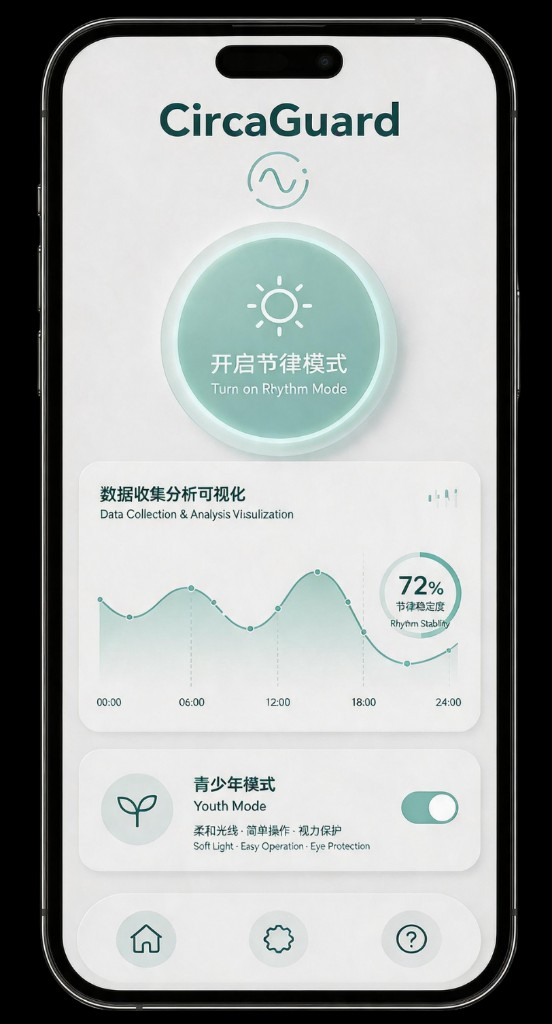
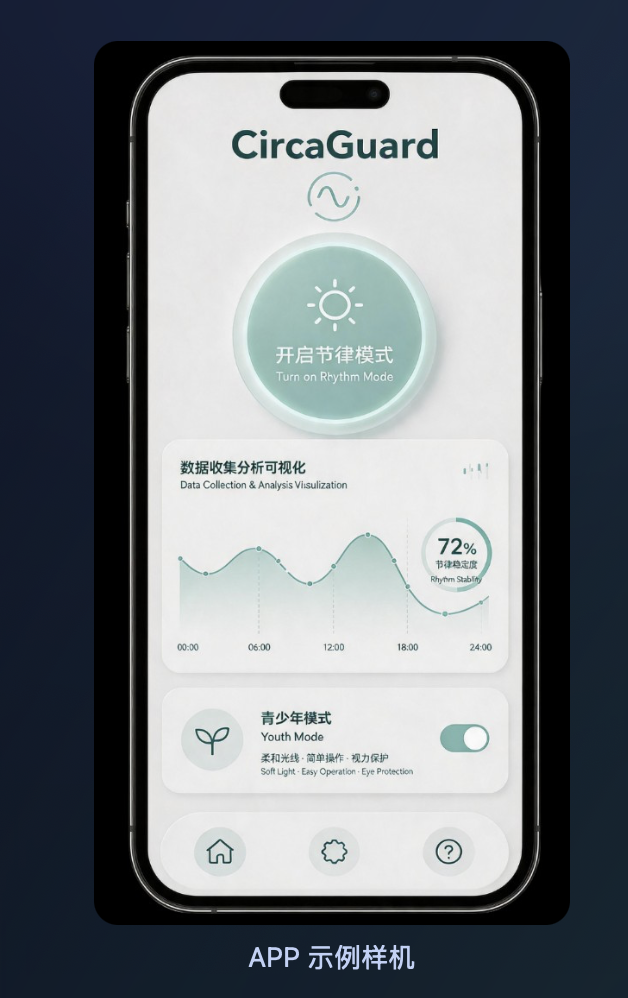
Polish final slide and add page number jump panel.
Remove redundant final-page content, keep a concise closing line, simplify app mockup styling, and add a clickable page-number picker in the footer controls.

diff --git a/script.js b/script.js
@@ -3,6 +3,8 @@ const counter = document.getElementById("counter");
 const progress = document.getElementById("progress");
 const prevBtn = document.getElementById("prevBtn");
 const nextBtn = document.getElementById("nextBtn");
+const pageJumpBtn = document.getElementById("pageJumpBtn");
+const pageJumpPanel = document.getElementById("pageJumpPanel");
 const printBtn = document.getElementById("printBtn");
 const fullscreenBtn = document.getElementById("fullscreenBtn");
 const langBtn = document.getElementById("langBtn");
@@ -185,7 +187,7 @@ const deckContent = {
         mockup: {
           src: "./assets/app-mockup.png",
           alt: "CircaGuard APP 示例样机",
-          caption: "APP 示例样机",
+          caption: "APP界面",
           position: "right",
         },
         highlight: "APP 是个体节律管理平台。",
@@ -240,10 +242,8 @@ const deckContent = {
       },
       {
         type: "closing",
-        title: "最终结语",
-        sentence: "CircaGuard 的演化路径是：产品到系统，再到空间。",
-        mark: "CircaGuard",
-        highlight: "通过可持续的节律基础设施，重新设计夜晚，也重新设计未来。",
+        title: "",
+        sentence: "重新设计夜晚，也重新设计未来。",
       },
     ],
   },
@@ -411,7 +411,7 @@ const deckContent = {
         mockup: {
           src: "./assets/app-mockup.png",
           alt: "CircaGuard app mockup",
-          caption: "APP mockup example",
+          caption: "APP Interface",
           position: "right",
         },
         highlight: "The app becomes a personal rhythm management platform.",
@@ -466,10 +466,8 @@ const deckContent = {
       },
       {
         type: "closing",
-        title: "Final Note",
-        sentence: "The evolution path of CircaGuard is: product to system, then to space.",
-        mark: "CircaGuard",
-        highlight: "Through sustainable circadian infrastructure, we hope to redesign the night and redesign the future.",
+        title: "",
+        sentence: "Redesign the night, redesign the future.",
       },
     ],
   },
@@ -497,7 +495,7 @@ const narration = {
     "最终，我们将系统明确为家庭与学校双场景协同结构。家庭卧室负责个体化、持续性的闭环干预；学校教室则作为公共环境辅助系统，在白天帮助稳定节律状态。两者共同构成一个更完整的节律生态。",
     "在应用层面，我们将个体层聚焦在家庭卧室，将空间层聚焦在学校教室。卧室是最直接发生睡眠行为的地方，适合进行个体化干预；教室则是最重要的公共学习环境，适合提供节律友好的空间支持。",
     "最终，这个项目从一个产品演变为一个系统，再进一步扩展为空间基础设施。为了让它更可实施，我们也提出了分阶段落地路径，先从个体层系统开始，再逐步扩展到学校空间层。",
-    "CircaGuard 的演化路径是：产品到系统，再到空间。我们希望通过可持续的节律基础设施，重新设计夜晚，也重新设计未来。",
+    "重新设计夜晚，也重新设计未来。",
   ],
   en: [
     "Hello everyone, our project is CircaGuard, an adolescent sleep intervention system based on circadian rhythm and AI, developed as a biodesign practice under the Convergent Life framework.",
@@ -520,7 +518,7 @@ const narration = {
     "Ultimately, we define the system as a dual-scenario coordinated structure between home and school. The home bedroom supports individualized and continuous closed-loop intervention, while school classrooms serve as a public environmental support system to stabilize circadian states during the day. Together, they form a more complete rhythm ecosystem.",
     "At the application level, we focus the personal layer on home bedrooms and the spatial layer on school classrooms. Bedrooms are where sleep behavior occurs most directly and are suitable for individualized intervention; classrooms are the most important public learning environments and are suitable for rhythm-friendly spatial support.",
     "In the end, this project evolves from a product into a system, and further into spatial infrastructure. To make it more implementable, we also propose a phased deployment path: starting with the personal-layer system, then gradually expanding to the school spatial layer.",
-    "The evolution path of CircaGuard is: product to system, then to space. Through sustainable circadian infrastructure, we hope to redesign the night and redesign the future.",
+    "Redesign the night, redesign the future.",
   ],
 };
 
@@ -618,10 +616,10 @@ function renderSlide(slide, index) {
   if (slide.type === "closing") {
     return `
       <section class="slide ${index === current ? "active" : ""}">
-        <h3 class="reveal">${slide.title}</h3>
+        ${slide.title ? `<h3 class="reveal">${slide.title}</h3>` : ""}
         <p class="closing reveal">${slide.sentence}</p>
-        <h2 class="reveal">${slide.mark}</h2>
-        <p class="highlight reveal">${slide.highlight}</p>
+        ${slide.mark ? `<h2 class="reveal">${slide.mark}</h2>` : ""}
+        ${slide.highlight ? `<p class="highlight reveal">${slide.highlight}</p>` : ""}
       </section>`;
   }
 
@@ -671,6 +669,10 @@ function mountSlides() {
   document.querySelector("label[for='enVoiceSelect']").textContent = content.nav.enVoiceLabel;
   langBtn.textContent = lang === "zh" ? "EN" : "中";
   document.documentElement.lang = lang === "zh" ? "zh-CN" : "en";
+  pageJumpBtn.textContent = lang === "zh" ? "页码" : "Pages";
+  pageJumpBtn.title = lang === "zh" ? "跳转到指定页面" : "Jump to specific page";
+  closePageJumpPanel();
+  buildPageJumpPanel();
   updateVoiceButton();
   renderVoiceSelectOptions();
 }
@@ -683,6 +685,7 @@ function render() {
   progress.style.width = `${((current + 1) / slides.length) * 100}%`;
   prevBtn.disabled = current === 0;
   nextBtn.disabled = current === slides.length - 1;
+  updatePageJumpActive();
   speakCurrentSlide();
 }
 
@@ -695,6 +698,15 @@ function go(step) {
 
 prevBtn.addEventListener("click", () => go(-1));
 nextBtn.addEventListener("click", () => go(1));
+
+pageJumpBtn.addEventListener("click", (event) => {
+  event.stopPropagation();
+  if (pageJumpPanel.hasAttribute("hidden")) {
+    openPageJumpPanel();
+  } else {
+    closePageJumpPanel();
+  }
+});
 
 langBtn.addEventListener("click", () => {
   lang = lang === "zh" ? "en" : "zh";
@@ -818,7 +830,16 @@ window.addEventListener("keydown", (event) => {
   } else if (event.key === "Escape" && isVoiceModalOpen()) {
     event.preventDefault();
     closeVoiceModal();
+  } else if (event.key === "Escape" && !pageJumpPanel.hasAttribute("hidden")) {
+    event.preventDefault();
+    closePageJumpPanel();
   }
+});
+
+document.addEventListener("click", (event) => {
+  if (pageJumpPanel.hasAttribute("hidden")) return;
+  if (pageJumpPanel.contains(event.target) || pageJumpBtn.contains(event.target)) return;
+  closePageJumpPanel();
 });
 
 function refreshVoices() {
@@ -988,6 +1009,41 @@ function closeVideoModal(options = {}) {
 function openVoiceModal() {
   voiceModal.removeAttribute("hidden");
   requestAnimationFrame(() => voiceModal.classList.add("show"));
+}
+
+function openPageJumpPanel() {
+  pageJumpPanel.removeAttribute("hidden");
+}
+
+function closePageJumpPanel() {
+  pageJumpPanel.setAttribute("hidden", "");
+}
+
+function buildPageJumpPanel() {
+  if (!pageJumpPanel) return;
+  pageJumpPanel.innerHTML = slides
+    .map(
+      (_, index) =>
+        `<button type="button" data-page="${index}" class="${index === current ? "active" : ""}">${index + 1}</button>`
+    )
+    .join("");
+  pageJumpPanel.querySelectorAll("button").forEach((btn) => {
+    btn.addEventListener("click", () => {
+      const target = Number(btn.dataset.page);
+      if (Number.isFinite(target) && target >= 0 && target < slides.length) {
+        current = target;
+        render();
+      }
+      closePageJumpPanel();
+    });
+  });
+}
+
+function updatePageJumpActive() {
+  if (!pageJumpPanel || pageJumpPanel.hasAttribute("hidden")) return;
+  pageJumpPanel.querySelectorAll("button").forEach((btn) => {
+    btn.classList.toggle("active", Number(btn.dataset.page) === current);
+  });
 }
 
 function closeVoiceModal() {

diff --git a/styles.css b/styles.css
@@ -314,6 +314,8 @@ h4 {
   max-width: 100%;
   max-height: min(56vh, 510px);
   margin: 0 auto;
+  border-radius: 0;
+  box-shadow: none;
 }
 
 .slide-mockup {
@@ -338,6 +340,13 @@ h4 {
   font-size: 0.85rem;
   color: #c0d2f7;
   text-align: center;
+}
+
+.slide.with-side-mockup .slide-mockup figcaption {
+  margin-top: 10px;
+  font-size: 0.9rem;
+  color: #e6eeff;
+  letter-spacing: 0.02em;
 }
 
 @media (max-width: 900px) {
@@ -481,7 +490,7 @@ li::before {
 
 .controls {
   display: grid;
-  grid-template-columns: auto 1fr auto;
+  grid-template-columns: auto 1fr auto auto;
   gap: 10px;
   align-items: center;
   padding: 8px 10px;
@@ -541,6 +550,42 @@ button:disabled {
   background: linear-gradient(90deg, var(--accent), var(--accent-2), var(--accent-3));
   transition: width 0.3s ease;
   box-shadow: 0 0 18px rgba(126, 168, 255, 0.55);
+}
+
+.page-jump-wrap {
+  position: relative;
+}
+
+#pageJumpBtn {
+  min-width: 74px;
+}
+
+.page-jump-panel {
+  position: absolute;
+  right: 0;
+  bottom: calc(100% + 10px);
+  width: min(360px, 82vw);
+  padding: 10px;
+  border-radius: 12px;
+  background: linear-gradient(145deg, rgba(16, 26, 46, 0.96), rgba(10, 18, 34, 0.96));
+  box-shadow: 0 16px 36px rgba(0, 0, 0, 0.4), 0 0 24px rgba(126, 168, 255, 0.18);
+  backdrop-filter: blur(8px);
+  -webkit-backdrop-filter: blur(8px);
+  display: grid;
+  grid-template-columns: repeat(7, minmax(0, 1fr));
+  gap: 6px;
+  z-index: 25;
+}
+
+.page-jump-panel button {
+  min-height: 34px;
+  padding: 6px 0;
+  border-radius: 10px;
+  font-size: 0.82rem;
+}
+
+.page-jump-panel button.active {
+  background: linear-gradient(120deg, rgba(86, 241, 210, 0.48), rgba(126, 168, 255, 0.42));
 }
 
 .video-modal {
@@ -811,6 +856,12 @@ button:disabled {
   }
   button {
     width: 100%;
+  }
+  .page-jump-panel {
+    left: 0;
+    right: 0;
+    width: 100%;
+    grid-template-columns: repeat(6, minmax(0, 1fr));
   }
   .topbar,
   .toolbar {

diff --git a/index.html b/index.html
@@ -26,6 +26,10 @@
       <footer class="controls">
         <button id="prevBtn" type="button" aria-label="上一页">← 上一页</button>
         <div class="progress-wrap"><div id="progress"></div></div>
+        <div class="page-jump-wrap">
+          <button id="pageJumpBtn" type="button" aria-label="选择页码">页码</button>
+          <div class="page-jump-panel" id="pageJumpPanel" hidden></div>
+        </div>
         <button id="nextBtn" type="button" aria-label="下一页">下一页 →</button>
       </footer>
     </div>
